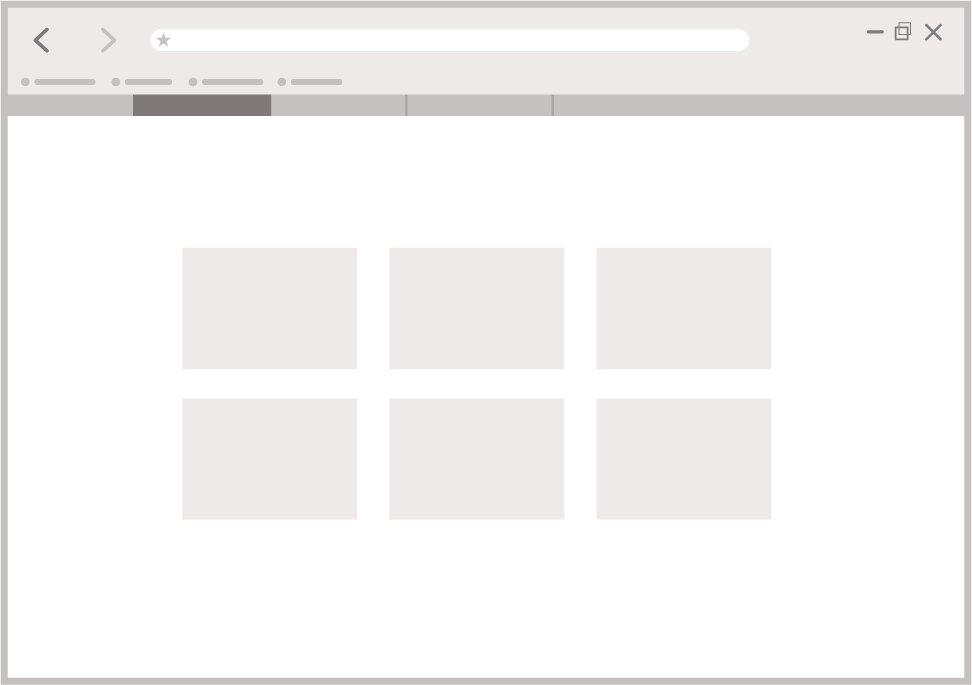
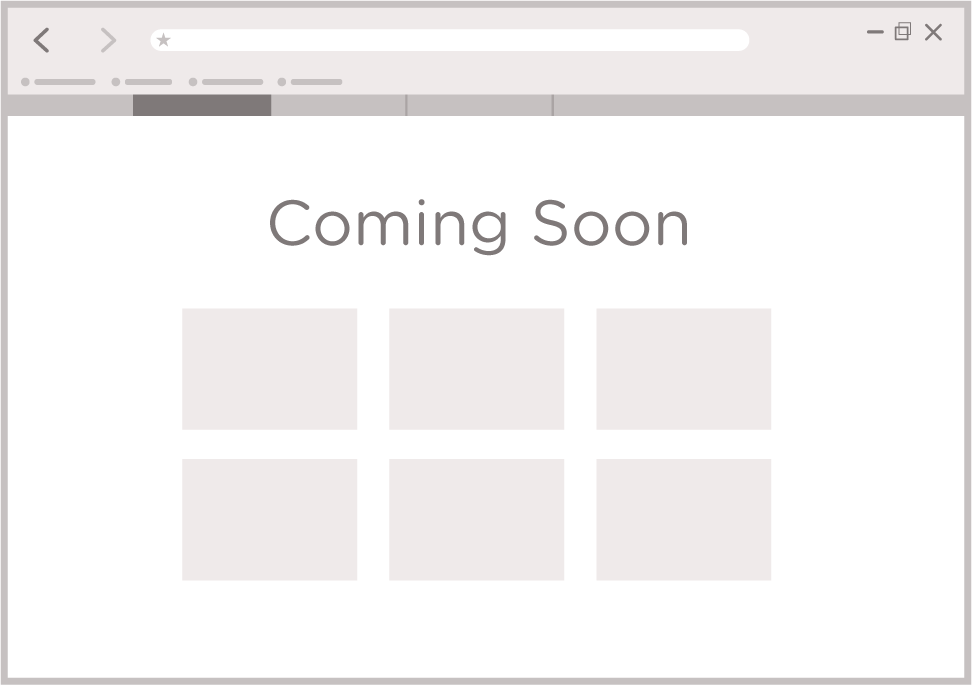
Updated assets, added white space on /apps/ios and /apps/browser

Changed region(s): [[0.2778, 0.2759, 0.5247, 0.3679], [0.5556, 0.2759, 0.7099, 0.3679]]

diff --git a/cypherpunk-com/src/app/layouts/public/apps/browser/browser.component.scss b/cypherpunk-com/src/app/layouts/public/apps/browser/browser.component.scss
@@ -12,7 +12,7 @@
   .content-inner {
     width: 100%;
     max-width: 1000px;
-    margin: auto;
+    margin: 0 auto 60px;
     overflow: auto;
   }
 
@@ -25,16 +25,6 @@
     position: relative;
 
     img { padding: 0 10px; max-width: 90%; max-height: 280px; opacity: 0.5; }
-
-    .soon {
-      font-size: 6vh;
-      position: absolute;
-      top: 50%;
-      left: 50%;
-      display: inline-block;
-      opacity: 0.5;
-      transform: translateX(-50%) translateY(-50%) scale(2);
-    }
   }
 }
 

diff --git a/cypherpunk-com/src/app/layouts/public/apps/browser/browser.component.html b/cypherpunk-com/src/app/layouts/public/apps/browser/browser.component.html
@@ -10,10 +10,6 @@
   <div class="content-inner">
     <div class="split">
       <img class="width" src="/assets/apps/main/cp-for-browser@2x.png" srcset="/assets/apps/main/cp-for-browser.png 500w, /assets/apps/main/cp-for-browser@2x.png 1000w" alt="Cypherpunk Privacy for Browsers">
-
-      <div class="soon">
-        Coming Soon
-      </div>
     </div>
 
     <div class="button-container">

diff --git a/cypherpunk-com/src/app/layouts/public/apps/ios/ios.component.scss b/cypherpunk-com/src/app/layouts/public/apps/ios/ios.component.scss
@@ -7,7 +7,7 @@
 .content {
   width: 100%;
   text-align: center;
-  padding: 60px 0 0;
+  padding: 60px 0 120px;
 
   .content-inner {
     width: 100%;
